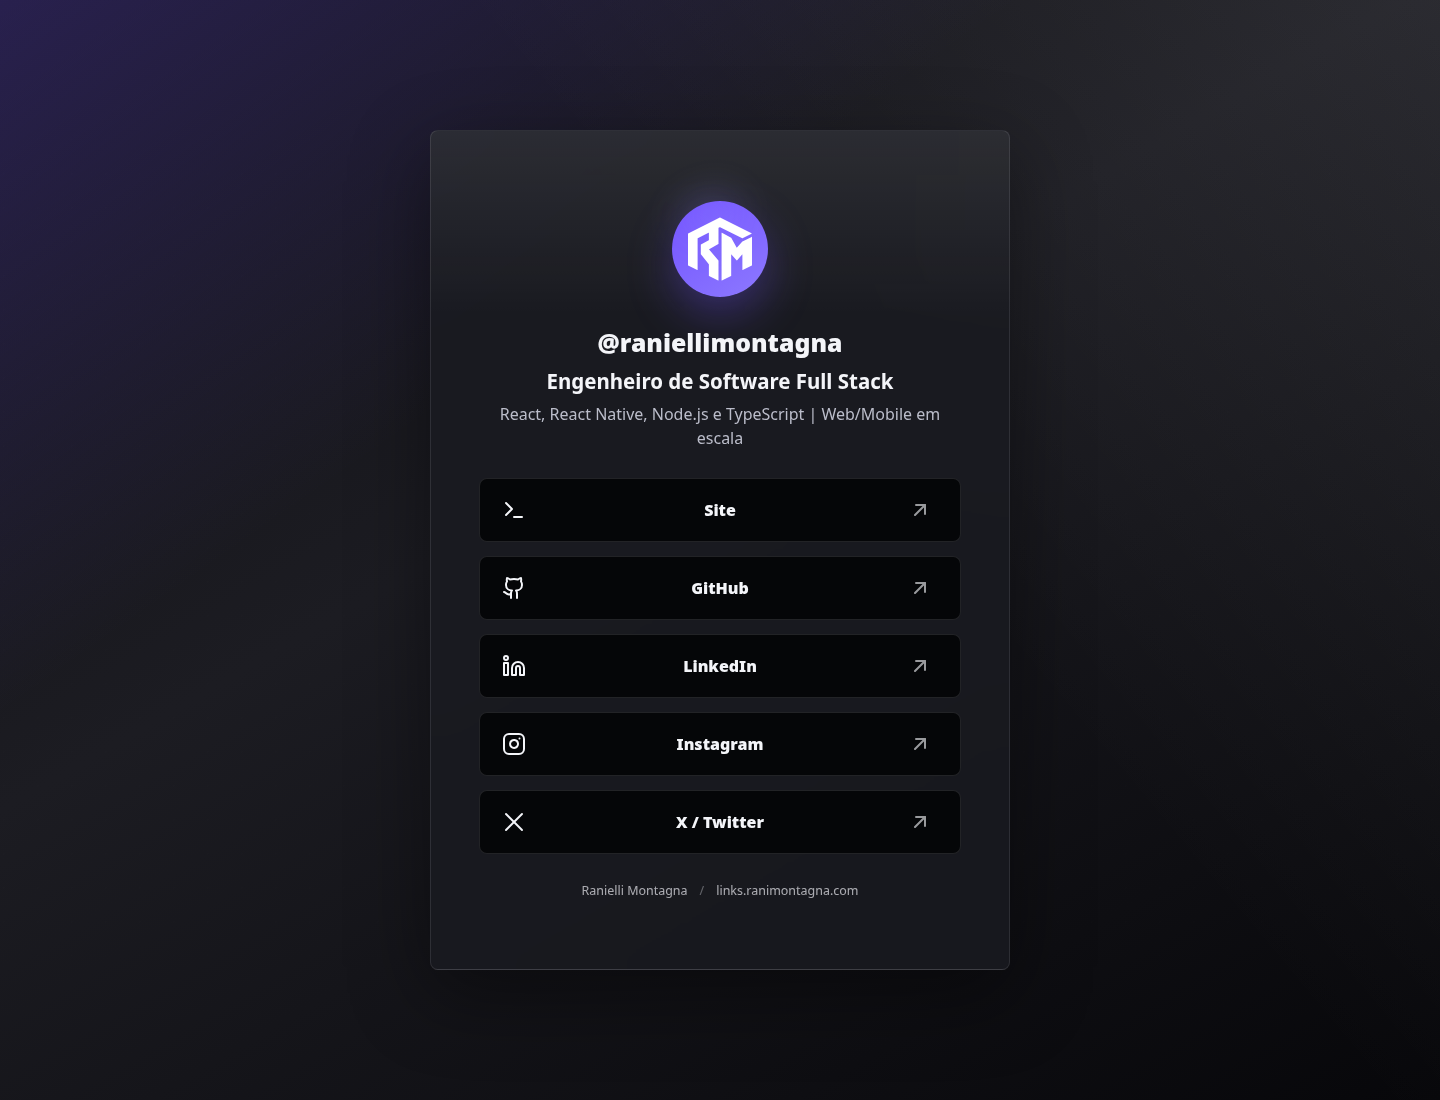
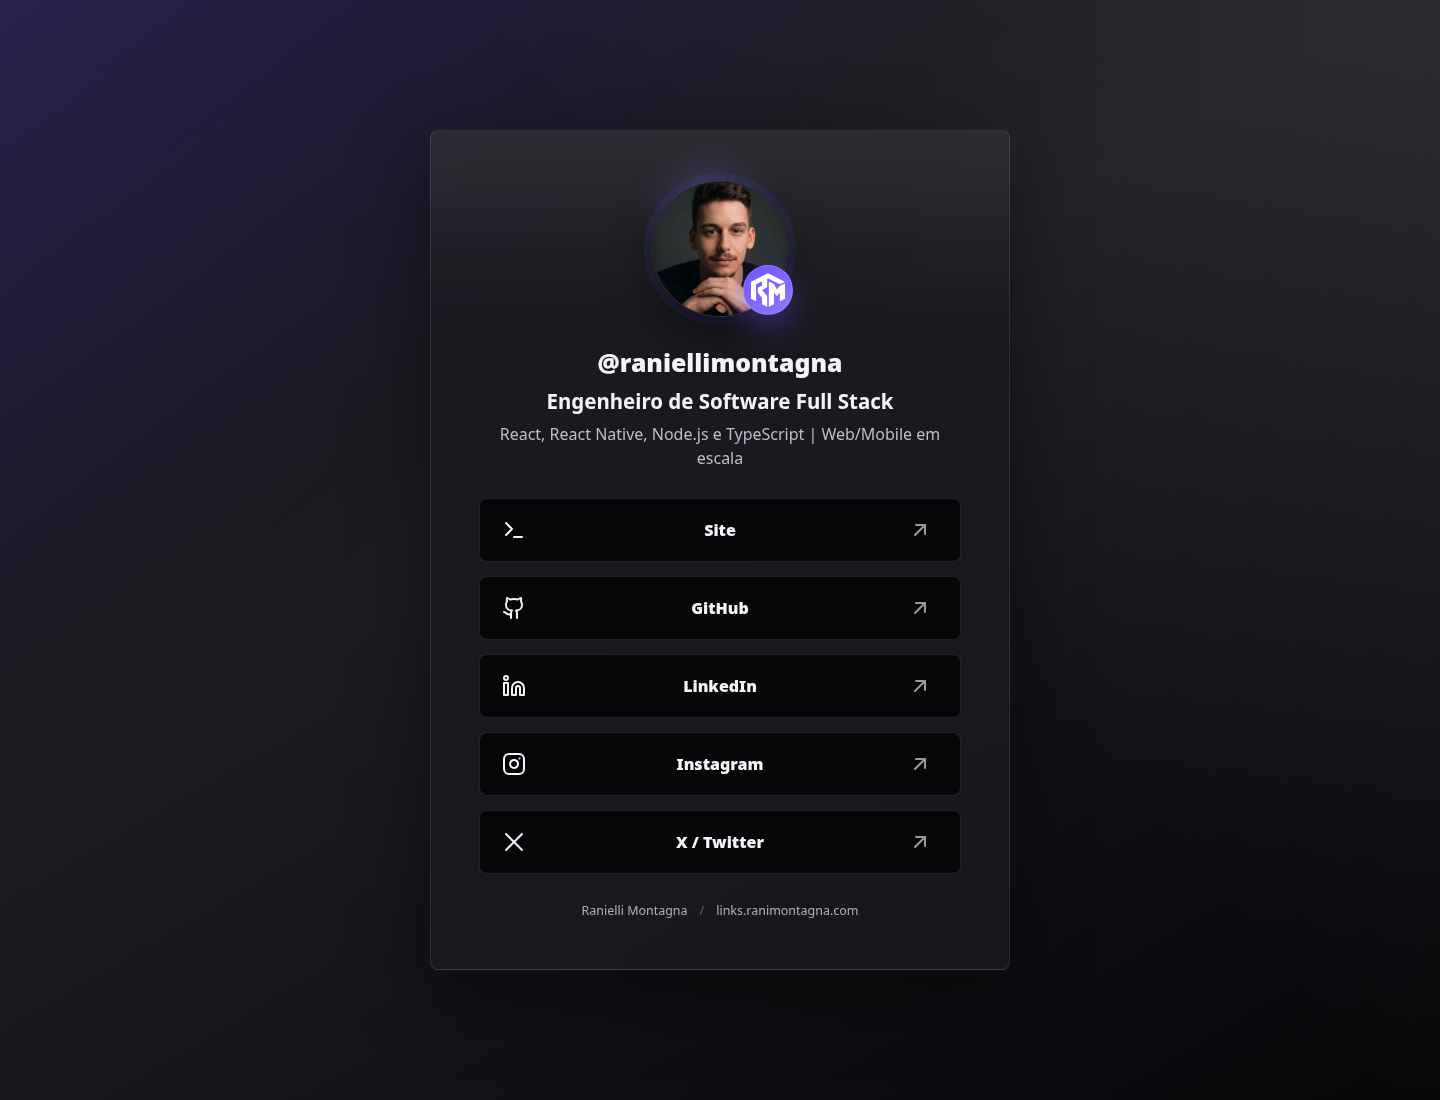
feat: add personal portrait

diff --git a/src/styles/global.css b/src/styles/global.css
@@ -88,23 +88,23 @@ a {
   animation: card-arrive 680ms var(--ease-out-expo) 80ms both;
 }
 
-.brand-mark {
+.identity-mark {
   position: relative;
-  width: 96px;
-  height: 96px;
+  width: 136px;
+  height: 136px;
   display: grid;
   place-items: center;
   align-self: center;
   border-radius: 999px;
-  background: linear-gradient(145deg, var(--brand), var(--brand-bright));
-  box-shadow: 0 18px 44px oklch(0.58 0.25 284 / 32%);
+  color: inherit;
+  text-decoration: none;
   isolation: isolate;
   animation: brand-arrive 720ms var(--ease-out-expo) 240ms both;
 }
 
-.brand-mark::after {
+.identity-mark::after {
   position: absolute;
-  inset: -10px;
+  inset: -14px;
   z-index: -1;
   border-radius: inherit;
   content: "";
@@ -119,13 +119,57 @@ a {
   animation: halo-turn 8s linear infinite;
 }
 
-.brand-mark img {
-  width: 64px;
-  height: 64px;
+.portrait-frame {
+  width: 136px;
+  height: 136px;
+  display: block;
+  overflow: hidden;
+  border: 1px solid oklch(0.98 0.006 278 / 18%);
+  border-radius: inherit;
+  background: oklch(0.12 0.008 278);
+  box-shadow:
+    0 22px 48px oklch(0.02 0.006 278 / 42%),
+    0 0 0 8px oklch(0.58 0.25 284 / 10%);
+}
+
+.portrait-frame img {
+  width: 100%;
+  height: 100%;
+  display: block;
+  object-fit: cover;
+  object-position: 50% 22%;
+  transform: scale(1.08);
+  transition:
+    filter 260ms var(--ease-out-quart),
+    transform 260ms var(--ease-out-quart);
+}
+
+.brand-badge {
+  position: absolute;
+  right: -5px;
+  bottom: 2px;
+  width: 50px;
+  height: 50px;
+  display: grid;
+  place-items: center;
+  border: 1px solid oklch(0.98 0.006 278 / 18%);
+  border-radius: 999px;
+  background: linear-gradient(145deg, var(--brand), var(--brand-bright));
+  box-shadow: 0 12px 28px oklch(0.58 0.25 284 / 36%);
+}
+
+.brand-badge img {
+  width: 34px;
+  height: 34px;
   transition: transform 220ms var(--ease-out-quint);
 }
 
-.brand-mark:hover img {
+.identity-mark:hover .portrait-frame img {
+  filter: saturate(1.08) contrast(1.04);
+  transform: scale(1.12);
+}
+
+.identity-mark:hover .brand-badge img {
   transform: scale(1.05) rotate(-3deg);
 }
 
@@ -374,9 +418,20 @@ h1 {
     padding: 56px 22px 28px;
   }
 
-  .brand-mark {
-    width: 88px;
-    height: 88px;
+  .identity-mark,
+  .portrait-frame {
+    width: 122px;
+    height: 122px;
+  }
+
+  .brand-badge {
+    width: 46px;
+    height: 46px;
+  }
+
+  .brand-badge img {
+    width: 31px;
+    height: 31px;
   }
 
   .link-button {
